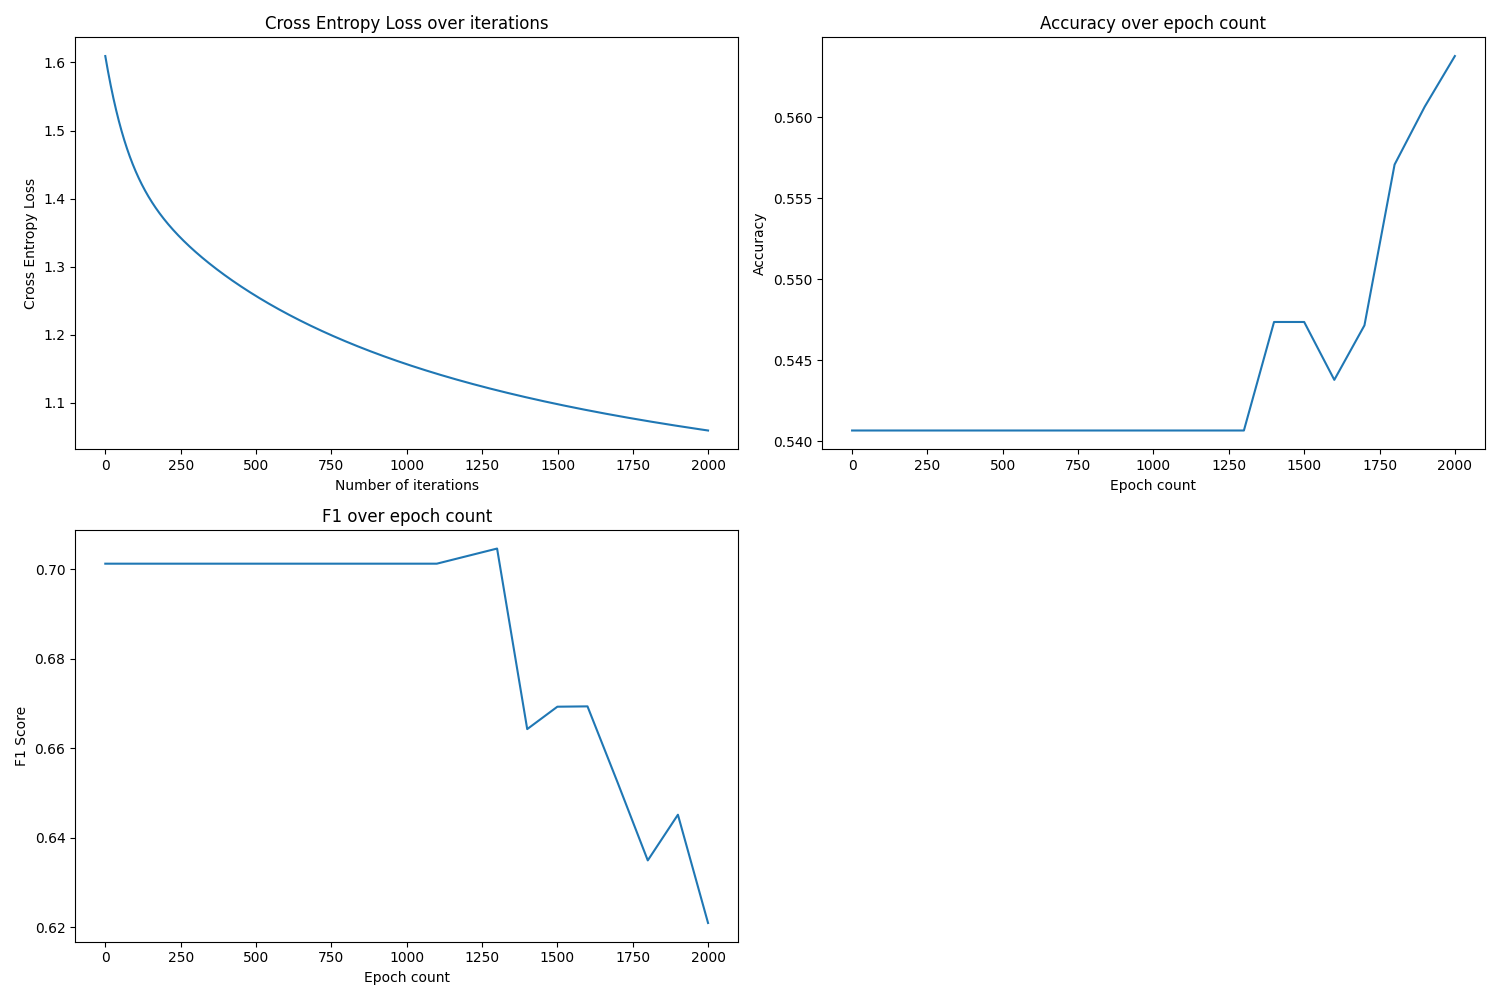
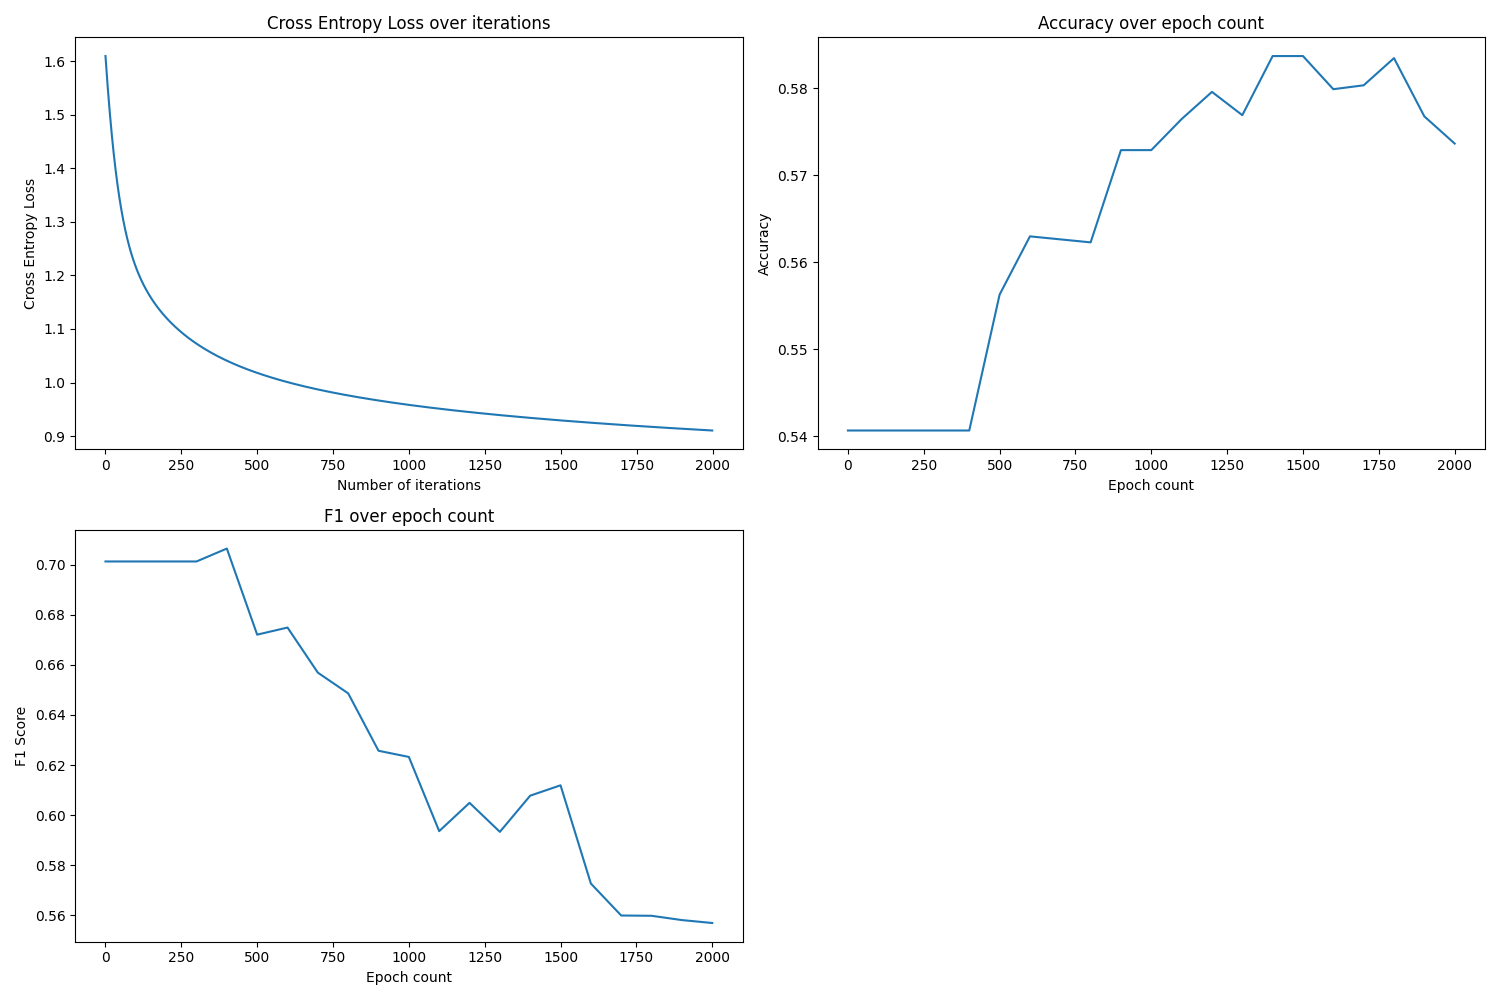
ec4, update load data for cleveland

diff --git a/Final_Project.tex b/Final_Project.tex
@@ -620,12 +620,29 @@ Note: When running the evalutation, there are overflow warning that may have imp
 
 \subsection*{Extra Credit 4}
 
-For this extra credit, we have decided to build a Multinominal Logistic Regression model. Traditional Logistic Regressions are usually only suitable for binary classifications.
+For this extra credit, we have decided to build a Multinomial Logistic Regression model. Traditional Logistic Regressions are usually only suitable for binary classifications.
 However, since some of our datasets have more than two classes, we made a few modifications. 
 We use the softmax function to convert logits class scores into probabilities, to ensure that for an instance, the output values (probability) of all classes are between 0 and 1 and sum up to 1.
 We use batch gradient descent to optimize the weights. After experimenting, we have concluded that the optimal range for the learning rate of our algorithm is between 0.005 and 0.01, and different values in this range produces almost the same results.
- Therefore, we chose to instead investigate the cross entropy cost loss change between iterations (epochs), and whether changing the number of epochs improves performance. 
-\subsubsection*{Digits Dataset}
+Therefore, we chose to instead investigate the cross entropy cost loss change between iterations (epochs), and whether changing the number of epochs improves performance. 
+
+Analysis: Overall, across all 5 datasets, it seems that accuracies and F1 scores tend to converge to a certain value, once the cross entropy loss has reached a stabilized point. 
+The algorithm performs adequately on the digits dataset, since the features here are simple and there are distinct patterns that the model can recognize, although it still performs worse than other algorithms shown above. 
+The loss function decreases in a smooth curve until it reaches a stable low point, indicating that throughout iterations of training and gradient descent, the algorithm seems to be able to minimize the loss function. 
+It is worth noting that the algorithm does not perform well on the titanic, parkinson or loan dataset, usually only achieving maximum around 0.8 for accuracy and sometimes even wildly fluctuating F1 scores. This indicates that for more complex datasets with hard to recognized patterns, the model would struggle. 
+This is especially highlighted for the Cleveland dataset, where accuracy could only reach 0.583, which is only slightly better than a coin toss. 
+It is worth noting that the Cleveland dataset has 5 classes across all instances, therefore it would be hard for the model to capture the underlying patterns. Traditionally, logistic regression is more used in binary classification, thus even after modifying it to accomodate multiclass problems, it still struggle in more complex datasets. 
+ \begin{table}[H]
+	\centering
+	\begin{tabular}{|l|l|l|l|l|l|}
+		\hline
+		               & Digits Dataset & Titanic Dataset & Loan Dataset & Parkinsons Dataset & Cleveland Dataset \\ \hline
+		Accuracy Score & 0.884     & 0.7859       & 0.808     & 0.809    &    0.583   \\ \hline
+		F1 Score       & 0.8806     & 0.7693        & 0.8177     & 0.8598  &   0.706   \\ \hline
+	\end{tabular}
+	\caption{Multinomial Logistic Regression on Different Datasets}
+\end{table}
+ \subsubsection*{Digits Dataset}
  \begin{figure}[H]
 	\includegraphics[width=\textwidth]{figures/logistics_digits.png}
 	\caption{Logistic Regression performance on Digits Dataset}

diff --git a/utils.py b/utils.py
@@ -224,6 +224,9 @@ def load_data(filename, encode=False):
                 features = [convert_to_float(item) for item in line[:-1]]
                 label.append(line[-1])
                 data.append(features)
+            if encode:
+                data = one_hot_encode(data, [1, 2, 5, 6, 8, 10, 12])
+            data = np.array(data)
     else:
         with open(f"datasets/{filename}", "r") as file:
             csvFile = csv.reader(file)
@@ -232,6 +235,7 @@ def load_data(filename, encode=False):
                 features = [convert_to_float(item) for item in line[:-1]]
                 label.append(line[-1])
                 data.append(features)
+
         data = np.array(data)
 
     return np.array(data, dtype=float), np.array(label, dtype=float)

diff --git a/logistic_regression.py b/logistic_regression.py
@@ -66,7 +66,6 @@ def main(filename, is_normalize=True):
 
     
     losses_over_iterations = losses_over_iterations / k
-    print(losses_over_iterations)
 
 
     accuracies_list = []
@@ -86,8 +85,8 @@ def main(filename, is_normalize=True):
         accuracies_list.append(np.mean(accuracies))
         f1_list.append(np.mean(f1_scores))
     
-    print(accuracies_list)
-    print(f1_list)
+    print(max(accuracies_list))
+    print(max(f1_list))
     
     
     plt.figure(figsize=(15, 10))
